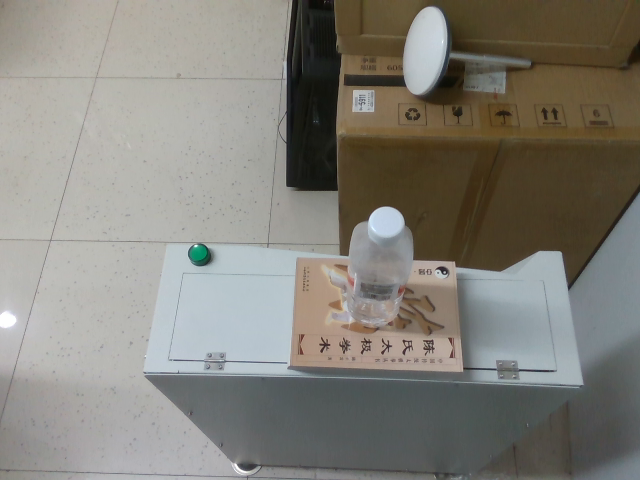
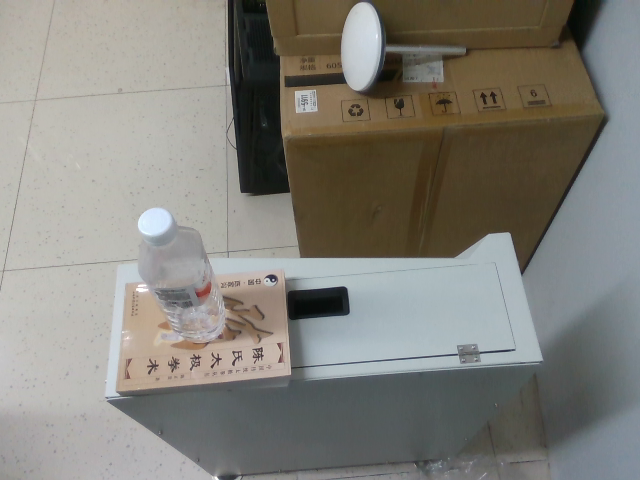
fix 20

diff --git a/scripts/grasp_from_offline_vision.py b/scripts/grasp_from_offline_vision.py
@@ -37,8 +37,8 @@ _SCRIPT_DIR = Path(__file__).resolve().parent
 # =============================================================================
 
 # 相机 optical 坐标 (m)，无 grasp_target.json 时使用
-# 来自 instance 离线视觉：pixel + depth 反投影
-CAMERA_POINT_M = (-0.014, 0.033, 0.772)
+# instance 2026-06-02 新位置：color(178,298) 瓶身中心偏下，depth≈582mm
+CAMERA_POINT_M = (-0.213, 0.074, 0.582)
 
 # 相机 -> base_link 静态变换（轮臂头顶俯视）
 PITCH_DEG = 51.0
@@ -59,8 +59,8 @@ OFFSET_Z = -0.12
 # 左手抓取微调（在官方 temp 偏置之后再叠加，右手不受影响）
 # +X 前伸远离机身；-Y 向中心（右）收；-Z 压低
 LEFT_GRASP_X_BIAS = 0.06
-LEFT_GRASP_Y_BIAS = -0.08
-LEFT_GRASP_Z_BIAS = -0.08
+LEFT_GRASP_Y_BIAS = -0.13
+LEFT_GRASP_Z_BIAS = -0.13
 
 # 预抓取 / 后撤（沿 base X：预抓取在抓取点后方 -X）
 PRE_GRASP_BACK_M = 0.10

diff --git a/scripts/compute_grasp_coords.py b/scripts/compute_grasp_coords.py
@@ -71,8 +71,8 @@ def main() -> None:
         str(INSTANCE / "camera_info1.txt"),
     )
 
-    # 水瓶在彩色图中心（瓶盖处深度常无效，在邻域取有效深度）
-    u_c, v_c = 320, 255
+    # 水瓶：在彩色图左侧书上，取瓶身中心偏下；深度用 depth 内参邻域中值
+    u_c, v_c = 178, 298
     u_d0 = int(round(u_c + (di["cx"] - ci["cx"])))
     v_d0 = int(round(v_c + (di["cy"] - ci["cy"])))
     dmm, u_d, v_d = 0.0, u_d0, v_d0
